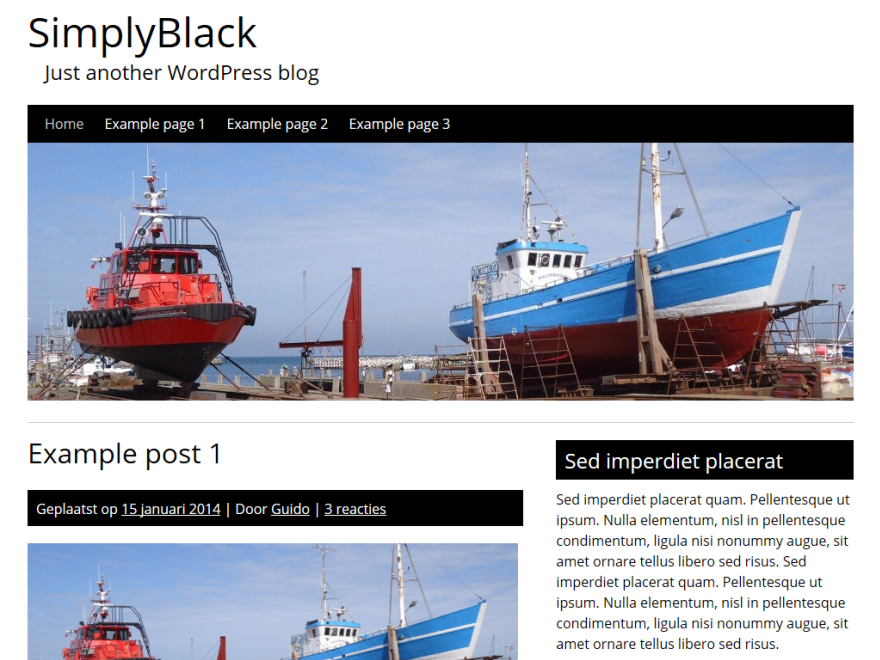
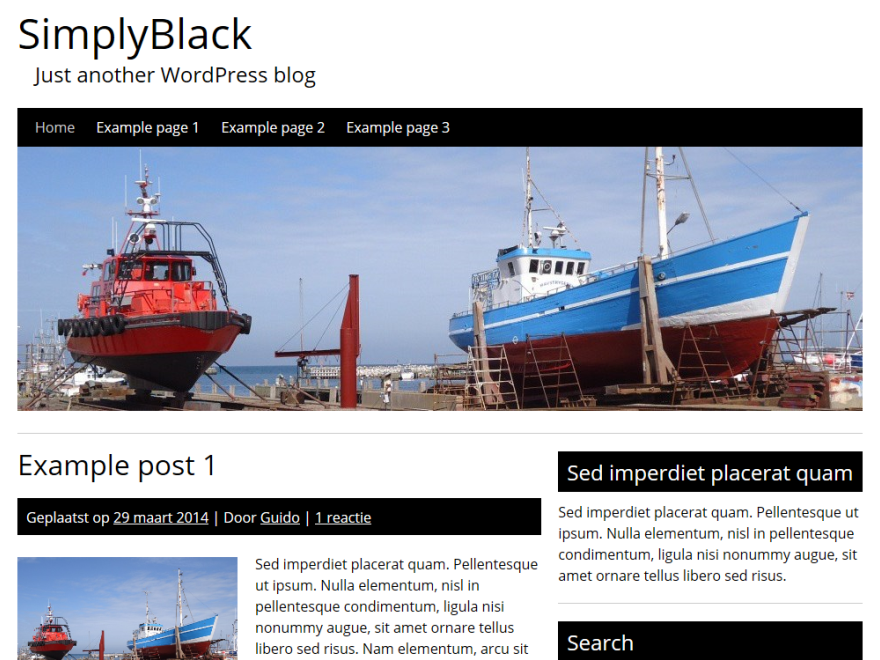
New version of SimplyBlack - 1.9

diff --git a/style.css b/style.css
@@ -1,7 +1,7 @@
 /*
 Theme Name: SimplyBlack
 Theme URI: http://www.guidovanderleest.nl/simplyblack
-Version: 1.8
+Version: 1.9
 Author: Guido van der Leest
 Author URI: http://www.guidovanderleest.nl
 Description: SimplyBlack is a free, basic, clean, minimalistic, responsive, mobile friendly, WordPress theme. Primary sidebar, 3 widget-area's in footer, custom header-image, custom background, display logo or blogname and description, full width page-template and dropdown navigation are included. Besides this no theme settings page, no fancy options, no slideshow, this one only has the basic options. Enjoy. 
@@ -75,8 +75,8 @@ table {
 
 /* GENERAL */
 body {background: #333; font-family: 'Open Sans', sans-serif; font-size:1em; line-height:1.5em;}
-#container {max-width: 960px; background:#fff; color:#000; border: 1px solid #eee; margin: 10px auto 10px; padding: 20px 2%; text-align: left; word-wrap: break-word;}
-#content {width: 60%; float:left; padding: 10px 0 20px; word-wrap: break-word;}
+#container {max-width: 960px; background:#fff; color:#000; border: 1px solid #eee; margin: 10px auto 10px; padding: 20px; text-align: left; word-wrap: break-word;}
+#content {width: 62%; float:left; padding: 10px 0 20px; word-wrap: break-word;}
 #content-full {width: 100%; float:left; padding: 10px 0 20px; word-wrap: break-word;}
 
 h1 {font-size:3.0em; line-height:1.2em;}
@@ -156,7 +156,7 @@ select {max-width:100%;}
 .postmetadata {margin:15px 0; padding:5px 10px; background: #000; color:#fff; border:0;}
 .postmetadata a {color:#fff; text-decoration:underline;}
 .postmetadata a:hover {color:#ccc; text-decoration:none;}
-.more {margin:0 0 20px; padding:0 0 20px; border-bottom:1px solid #ccc;}
+.more {clear:both; margin:0 0 20px; padding:0 0 20px; border-bottom:1px solid #ccc;}
 .more:after {content:''; display:block; clear:both;}
 a.readmore {float:right; padding: 2px 10px; background: #000; color:#fff; text-decoration:none;}
 a.readmore:hover {background: #555;}
@@ -176,6 +176,8 @@ img.aligncenter {display: block; margin-left: auto; margin-right: auto; margin-b
 .alignright {float:right; margin:0 0 1em 1em;}
 .alignleft {float:left; margin:0 1em 1em 0;}
 .aligncenter {display: block; margin-left: auto; margin-right: auto; margin-bottom:1em;}
+
+.wp-post-image {float:left; margin: 10px 20px 5px 0;}
 
 .wp-caption {background:none; max-width: 100%;}
 .wp-caption-text {text-align:center; word-wrap: break-word;}
@@ -236,6 +238,7 @@ img.aligncenter {display: block; margin-left: auto; margin-right: auto; margin-b
 	#sidebar {width:100%; border:0; padding:0; float:left;}
 	#footer {width:100%; border:0;}
 	.post-title, .page-title, .widgettitle, .comments-title, .comment-reply-title, .no-comments {font-size:1.3em;}
+	.wp-post-image {width:50%; margin: 10px 10px 5px 0;}
 	.footer-right, .footer-middle, .footer-left {width:100%; border:0; padding:0; margin:0; float:left;} 
 	.nav-head ul {display: none;} 
 	.nav-head {padding:0; margin:0;}

diff --git a/archive.php b/archive.php
@@ -33,7 +33,7 @@
 		<?php printf( __( 'Posted on %s', 'simplyblack' ), '<a href="' . esc_url( get_permalink() ) . '">' . esc_html( get_the_date() ). '</a>' ); ?> | 
 		<?php printf( __( 'By %s', 'simplyblack' ), sprintf( '<a href="%1$s">%2$s</a>', esc_url( get_author_posts_url( get_the_author_meta( 'ID' ) ) ), esc_html( get_the_author() ) ) ); ?>
 		<?php if ( ! post_password_required() && ( comments_open() || get_comments_number() ) ) : echo '|'; ?>
-		<?php comments_popup_link( __( 'Leave a response', 'simplyblack' ), __( '1 response', 'simplyblack' ), __( '% responses', 'simplyblack' ) ); ?><?php endif; ?></h5>
+		<?php comments_popup_link( __( 'Leave a response', 'simplyblack' ), __( '1 response', 'simplyblack' ), __( '% responses', 'simplyblack' ) ); ?><?php endif; ?>
 		</h5>
 
 	<?php if ( has_post_thumbnail() ) { 

diff --git a/index.php b/index.php
@@ -23,7 +23,7 @@
 		<?php printf( __( 'Posted on %s', 'simplyblack' ), '<a href="' . esc_url( get_permalink() ) . '">' . esc_html( get_the_date() ). '</a>' ); ?> | 
 		<?php printf( __( 'By %s', 'simplyblack' ), sprintf( '<a href="%1$s">%2$s</a>', esc_url( get_author_posts_url( get_the_author_meta( 'ID' ) ) ), esc_html( get_the_author() ) ) ); ?>
 		<?php if ( ! post_password_required() && ( comments_open() || get_comments_number() ) ) : echo '|'; ?>
-		<?php comments_popup_link( __( 'Leave a response', 'simplyblack' ), __( '1 response', 'simplyblack' ), __( '% responses', 'simplyblack' ) ); ?><?php endif; ?></h5>
+		<?php comments_popup_link( __( 'Leave a response', 'simplyblack' ), __( '1 response', 'simplyblack' ), __( '% responses', 'simplyblack' ) ); ?><?php endif; ?>
 		</h5>
 
 	<?php if ( has_post_thumbnail() ) { 

diff --git a/search.php b/search.php
@@ -21,7 +21,7 @@
 		<?php printf( __( 'Posted on %s', 'simplyblack' ), '<a href="' . esc_url( get_permalink() ) . '">' . esc_html( get_the_date() ). '</a>' ); ?> | 
 		<?php printf( __( 'By %s', 'simplyblack' ), sprintf( '<a href="%1$s">%2$s</a>', esc_url( get_author_posts_url( get_the_author_meta( 'ID' ) ) ), esc_html( get_the_author() ) ) ); ?>
 		<?php if ( ! post_password_required() && ( comments_open() || get_comments_number() ) ) : echo '|'; ?>
-		<?php comments_popup_link( __( 'Leave a response', 'simplyblack' ), __( '1 response', 'simplyblack' ), __( '% responses', 'simplyblack' ) ); ?><?php endif; ?></h5>
+		<?php comments_popup_link( __( 'Leave a response', 'simplyblack' ), __( '1 response', 'simplyblack' ), __( '% responses', 'simplyblack' ) ); ?><?php endif; ?>
 		</h5>
 
 	<?php if ( has_post_thumbnail() ) { 

diff --git a/single.php b/single.php
@@ -17,7 +17,7 @@
 			<?php printf( __( 'Posted on %s', 'simplyblack' ), '<a href="' . esc_url( get_permalink() ) . '">' . esc_html( get_the_date() ). '</a>' ); ?> | 
 			<?php printf( __( 'By %s', 'simplyblack' ), sprintf( '<a href="%1$s">%2$s</a>', esc_url( get_author_posts_url( get_the_author_meta( 'ID' ) ) ), esc_html( get_the_author() ) ) ); ?>
 			<?php if ( ! post_password_required() && ( comments_open() || get_comments_number() ) ) : echo '|'; ?>
-			<?php comments_popup_link( __( 'Leave a response', 'simplyblack' ), __( '1 response', 'simplyblack' ), __( '% responses', 'simplyblack' ) ); ?><?php endif; ?></h5>
+			<?php comments_popup_link( __( 'Leave a response', 'simplyblack' ), __( '1 response', 'simplyblack' ), __( '% responses', 'simplyblack' ) ); ?><?php endif; ?>
 			</h5>
 	
 			<?php the_content(); ?>

diff --git a/functions.php b/functions.php
@@ -3,7 +3,7 @@
  * Theme functions and definitions.
  */
 
-// Sets up theme defaults and registers various WordPress features that simplyblack supports
+// Sets up theme defaults and registers various WordPress features that SimplyBlack supports
 	function simplyblack_setup() { 
 
 	// Set max content width for img, video, and more
@@ -45,7 +45,7 @@
 		add_theme_support( 'post-thumbnails' ); 
 
 	// Resize mode thumbnails
-		set_post_thumbnail_size( 580, 450 ); 
+		set_post_thumbnail_size( 250, 250 ); 
 
 
 	// This feature adds RSS feed links to html head 

diff --git a/comments.php b/comments.php
@@ -10,7 +10,7 @@ if ( post_password_required() )
 	return;
 ?>
 
-<div id="comments" class="comments-area">
+<div id="comments">
 
 	<?php if ( have_comments() ) : ?>
 		<h4 class="comments-title">
